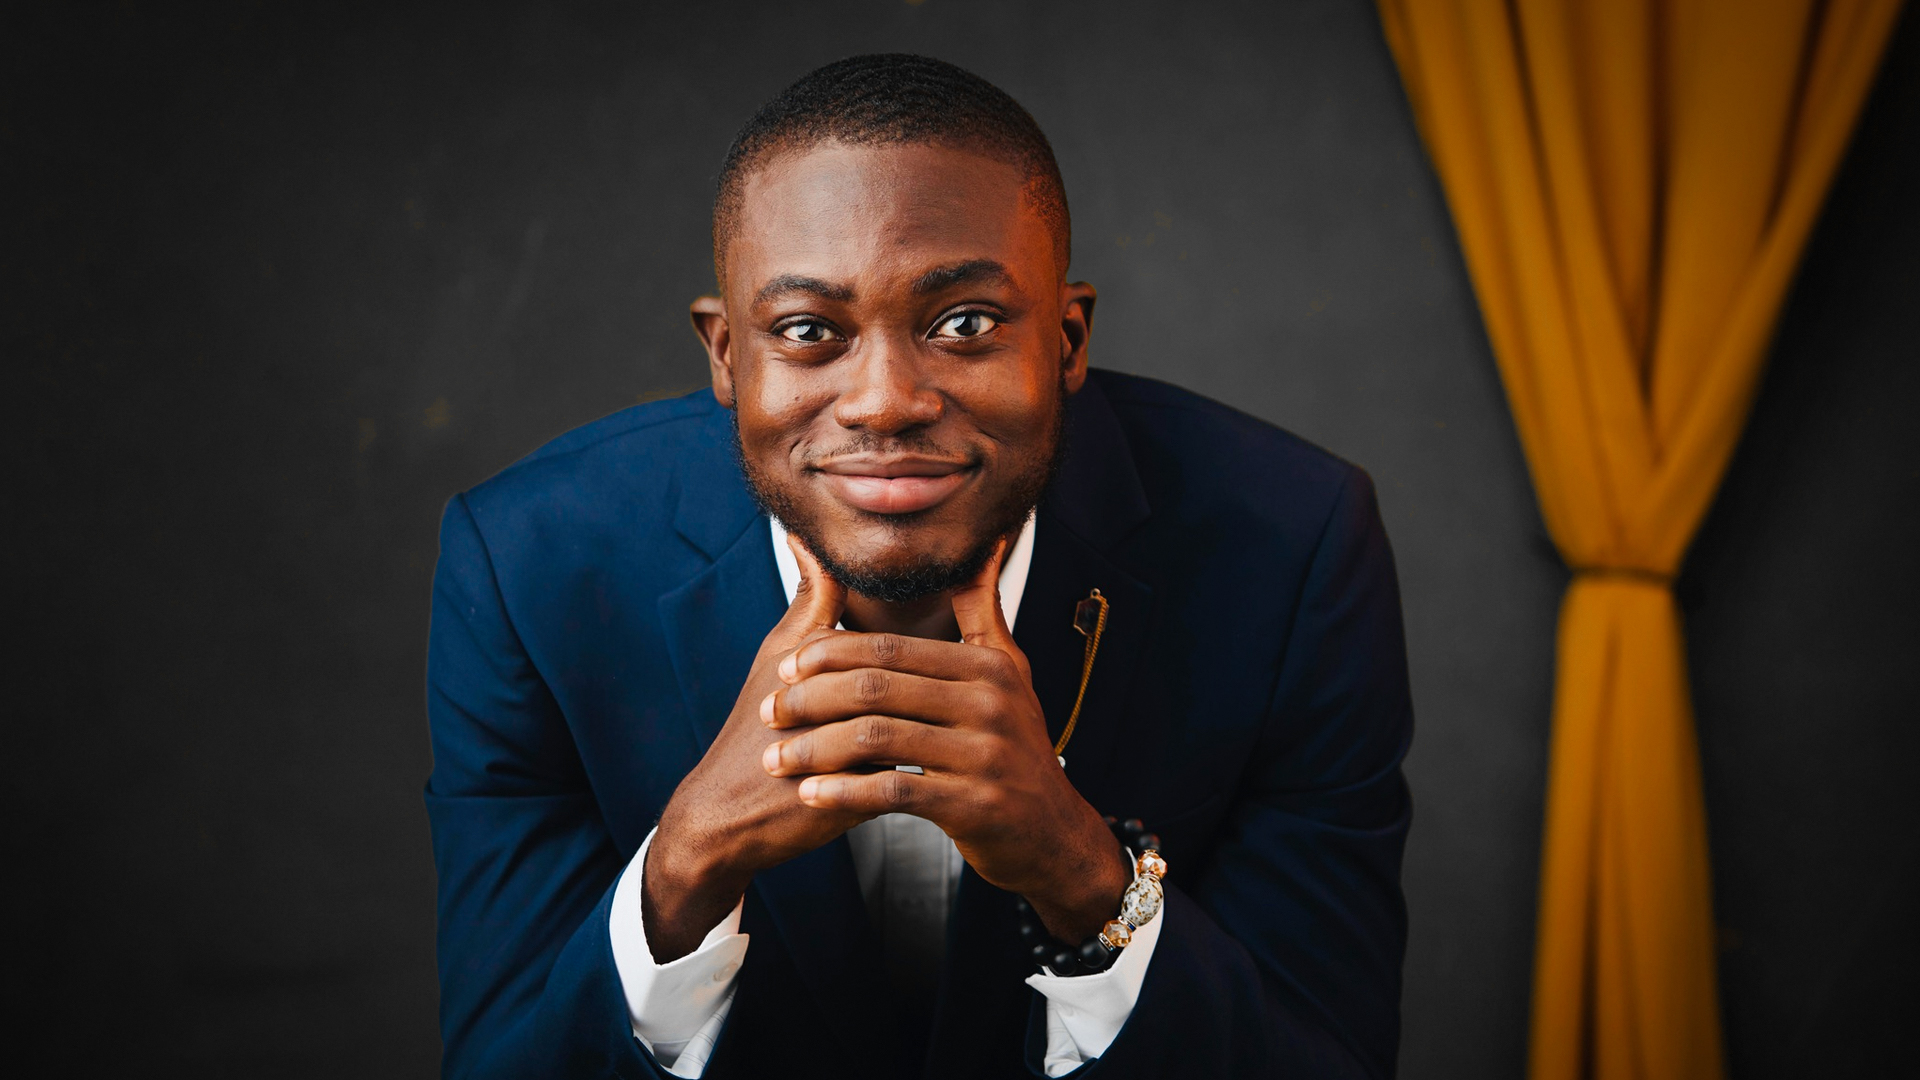
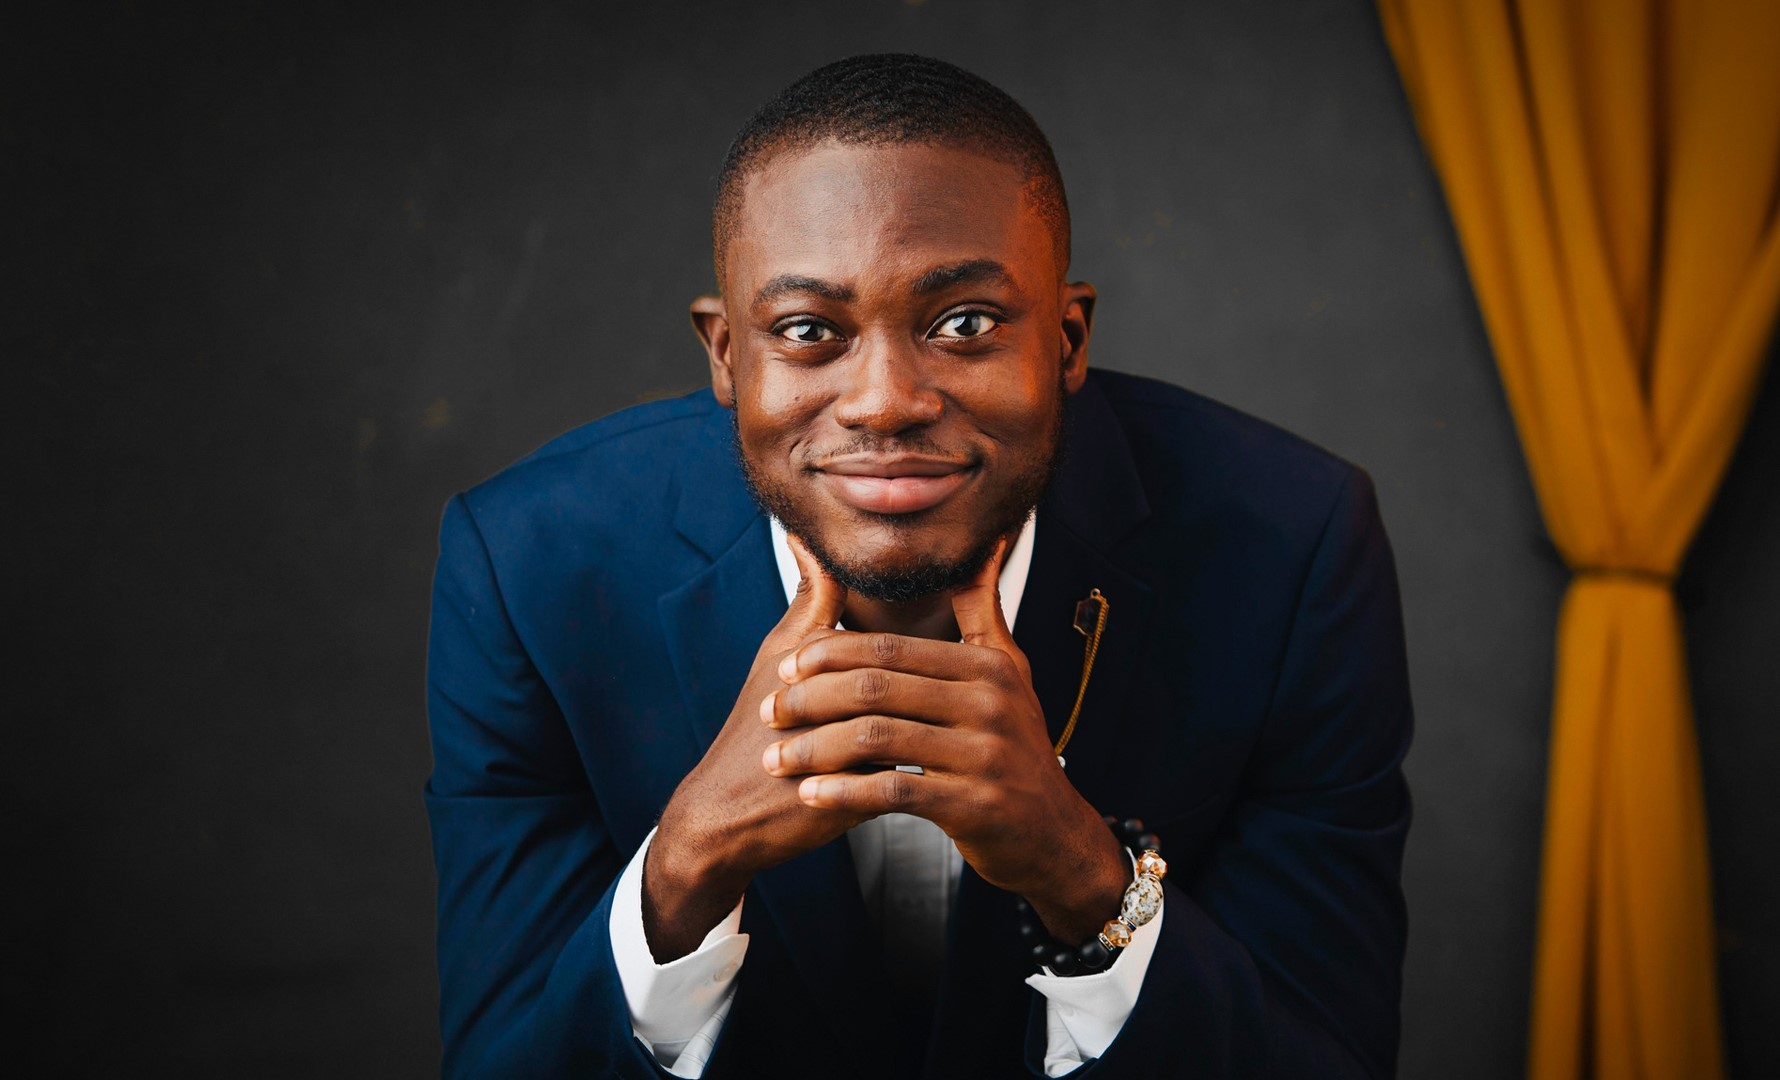
major changes

diff --git a/styles.css b/styles.css
@@ -19,27 +19,9 @@ body{
     position: relative;
     padding-left: 30px;
     padding-right: 30px; 
-    animation: animate 16s ease-in-out infinite;
-    
-}
-
-
-@keyframes animate {
-    0%, 100%{
     background-image: linear-gradient(rgba(4,9,30,0.3), rgba(4,9,30,0.3)),
-    url(IMG_8127.JPG);
-    }
-
-    33%{
-        background-image: linear-gradient(rgba(4,9,30,0.1), rgba(4,9,30,0.1)),
-        url(nana\ kk10\ new.jpg);
-        }
-
-    66%{
-        background-image: linear-gradient(rgba(4,9,30,0.3), rgba(4,9,30,0.3)),
-            url(nana\ 2.01.jpeg);
-            }
-
+    url(mypics/WhatsApp\ Image\ 2024-02-21\ at\ 11.36.39\ AM3A.jpg);
+    
 }
 
 
@@ -168,7 +150,8 @@ section#hero{
 }
 
 #hero h1{
-    font-size: 4rem;
+    padding-top: 80px;
+    font-size: 3.5rem;
 }
 
 #hero h1 .hero-sec{
@@ -178,8 +161,7 @@ section#hero{
 
 #hero p{
     color: white;
-    font-size: 17px;
-    font-weight: 500;
+    font-size: 15.5px;
 }
 
 .home-about-sec{

diff --git a/index.html b/index.html
@@ -91,9 +91,11 @@
         </section>
 
         <div class="insights-container">
+                <img src="mypics/WhatsApp Image 2024-02-21 at 11.36.39 AM1.jpg" alt="">
+                <img src="mypics/WhatsApp Image 2024-02-21 at 11.36.39 AM4.jpg" alt="">
                 <img src="new nana kk.jpg" alt="">
-                <img src="img kk.jpg" alt="">
-                <img src="nana 2.01.jpeg" alt="">
+                <img src="mypics/WhatsApp Image 2024-02-21 at 11.36.39 AM2.jpg" alt="">
+                <img src="file.enc" alt="">
         </div>
 
         
